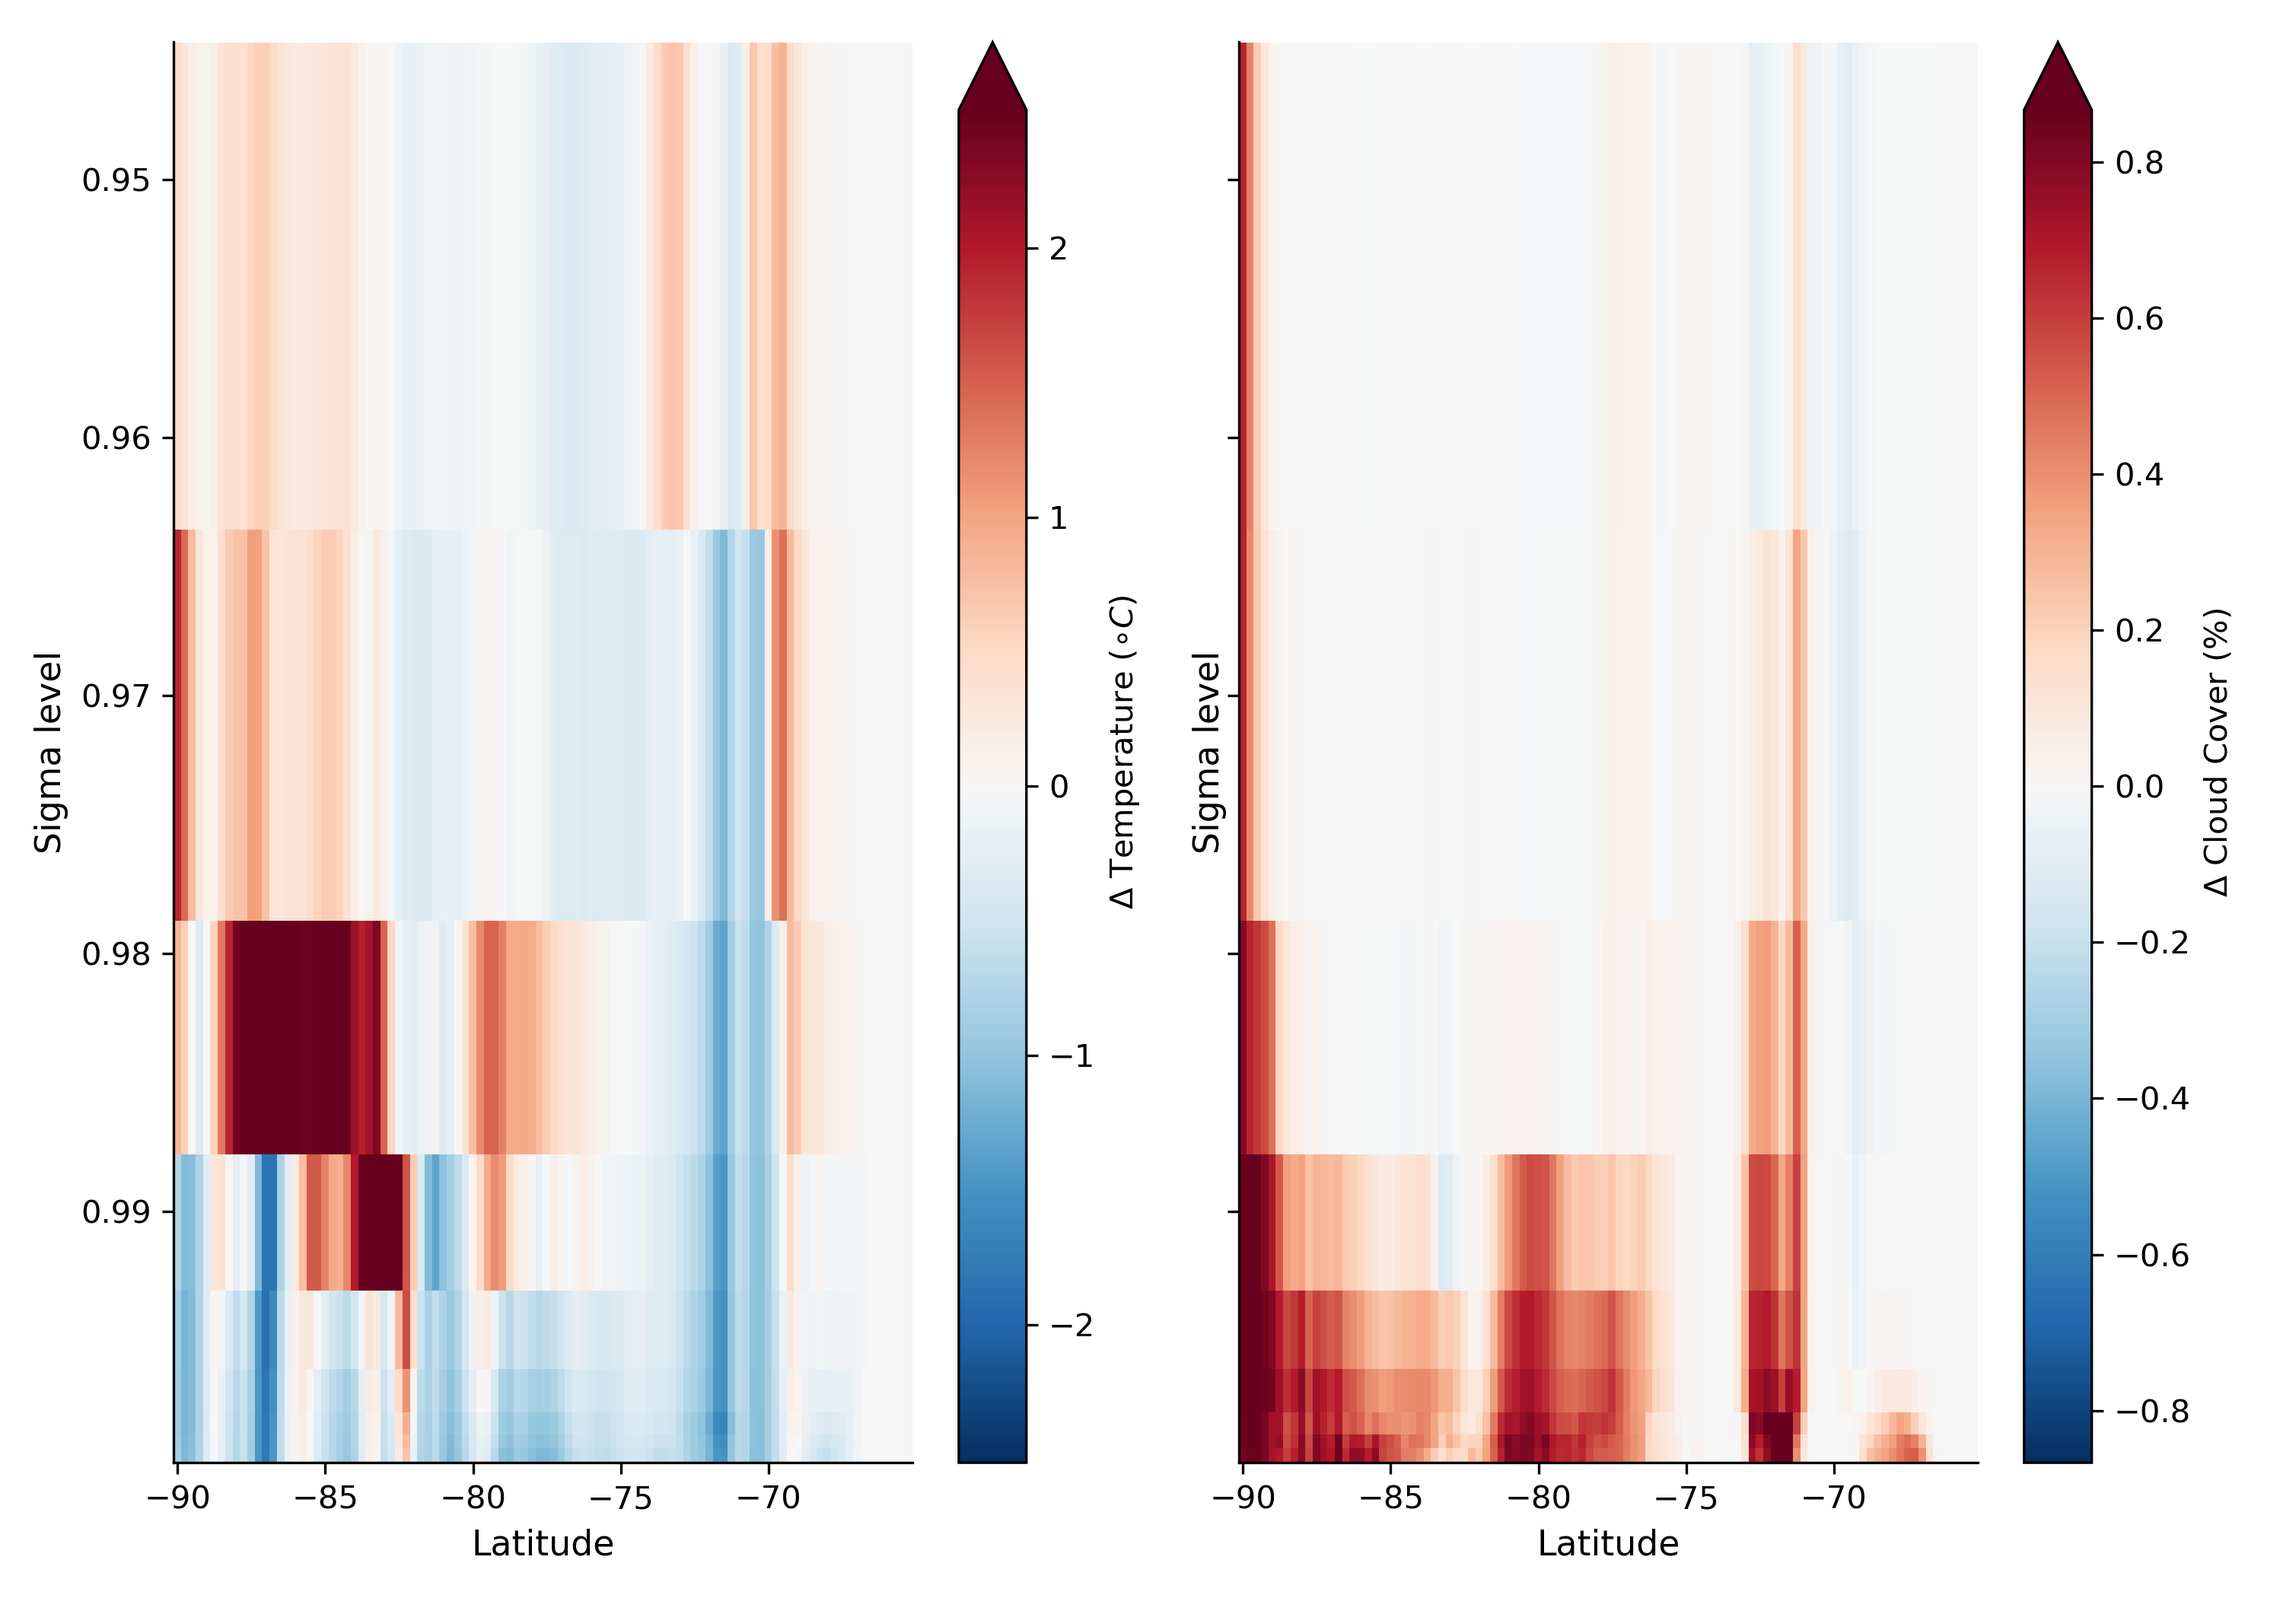
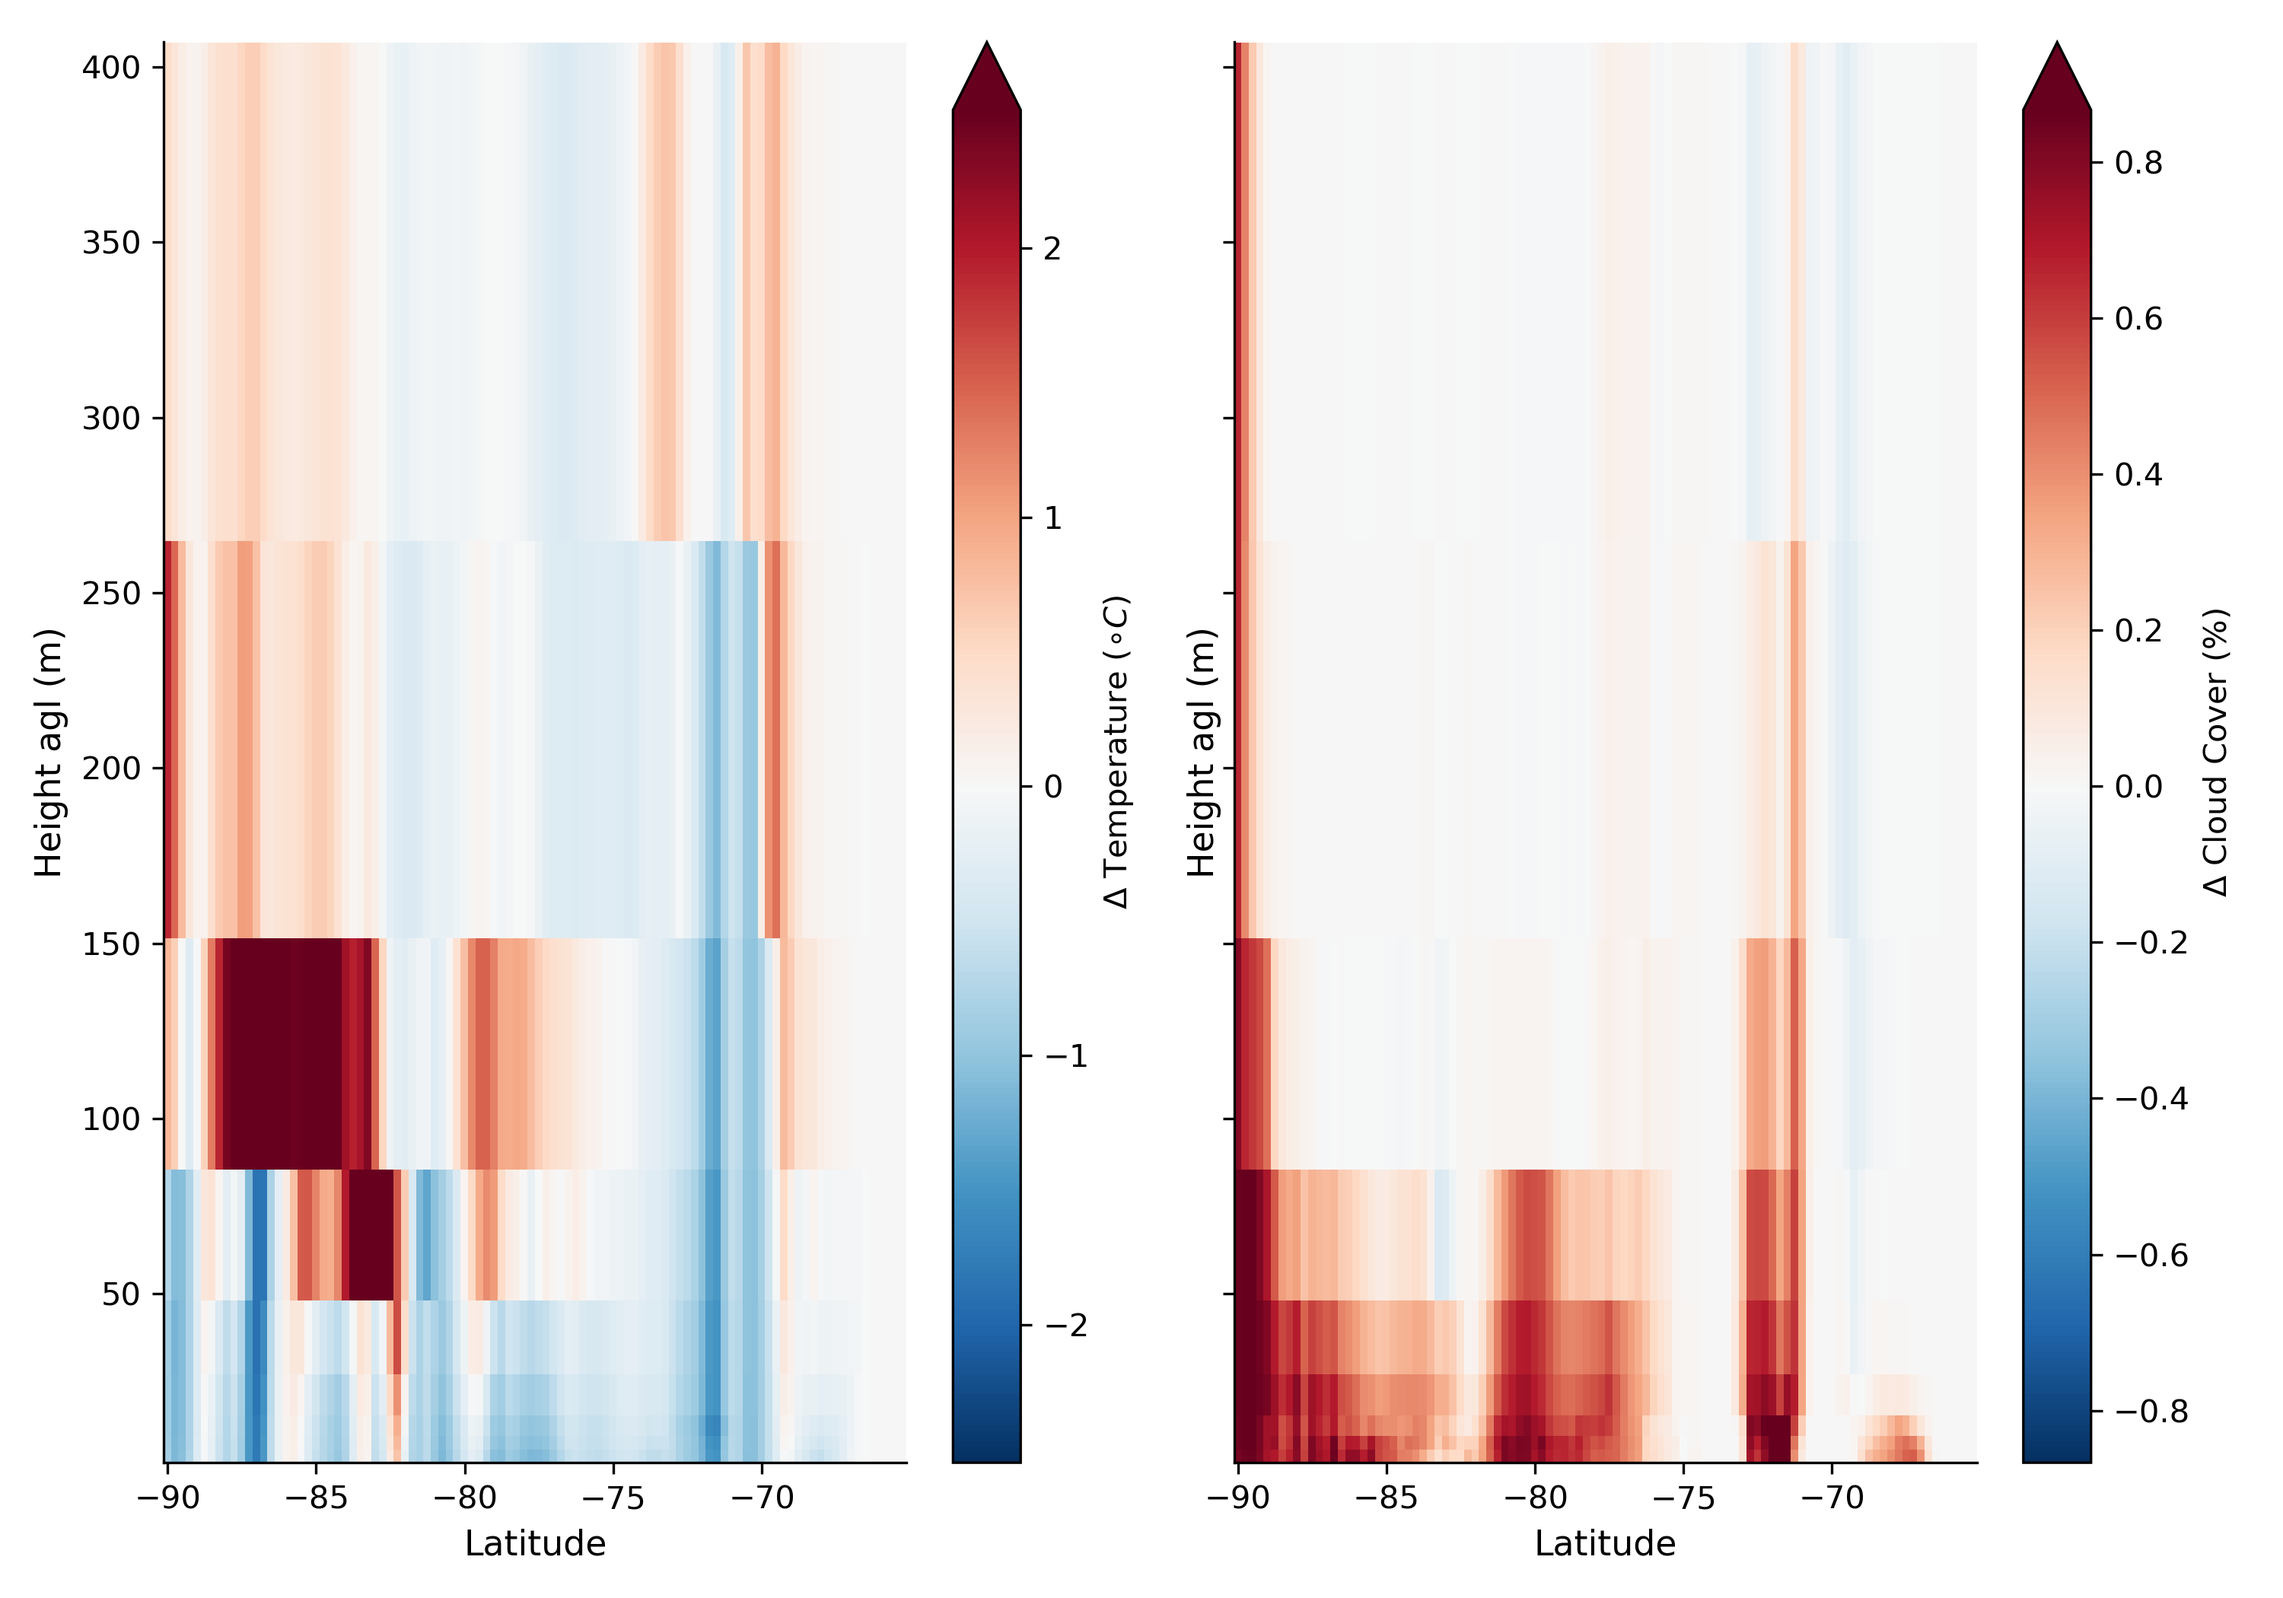
WIP: Radiative 3D effects

diff --git a/Fig4/cross_section_radiation.py b/Fig4/cross_section_radiation.py
@@ -54,20 +54,28 @@ end = (-65, 0)
 # This also works to plot a cross section but on MAR grid
 # diff.SWNC3D.sel(X=0,Y=slice(-2400,2400),TIME='2009-10-14').plot()
 # Create regridder
-ds_in = diff.TT.assign_coords({'lat': ds_bs.LAT, 'lon': ds_bs.LON, 'x': ds_bs.X,
+ds_in = diff.LWN3D.assign_coords({'lat': ds_bs.LAT, 'lon': ds_bs.LON, 'x': ds_bs.X,
                               'y': ds_bs.Y})
 # Create the regridder
 regridder = xe.Regridder(ds_in, ds_grid_new, 'bilinear', reuse_weights=True)
 # Regrid the data to the 0.25x0.25 grid
-ds_TT = regridder(ds_in)
-ds_LQS = regridder(diff.CC3D.assign_coords({'lat': ds_bs.LAT, 'lon': ds_bs.LON,
+ds_LWN3D = regridder(ds_in)
+ds_SWN3D = regridder(diff.SWN3D.assign_coords({'lat': ds_bs.LAT, 'lon': ds_bs.LON,
+                                           'x': ds_bs.X, 'y': ds_bs.Y}))
+ds_SWNC3D = regridder(diff.SWNC3D.assign_coords({'lat': ds_bs.LAT, 'lon': ds_bs.LON,
+                                           'x': ds_bs.X, 'y': ds_bs.Y}))
+ds_LWNC3D = regridder(diff.LWNC3D.assign_coords({'lat': ds_bs.LAT, 'lon': ds_bs.LON,
                                            'x': ds_bs.X, 'y': ds_bs.Y}))
 ds_height = regridder(layer_agl.assign_coords({'lat': ds_bs.LAT, 'lon': ds_bs.LON,
                                               'x': ds_bs.X, 'y': ds_bs.Y}))
 # Create the cross section by using xarray interpolation routine
 # Interpolate along all lats and 0 longitude (could be any lat lon line)
-ds_TT = ds_TT.interp(lat=np.arange(start[0], end[0], 0.25), lon=start[1])
-ds_LQS = ds_LQS.interp(lat=np.arange(start[0], end[0], 0.25), lon=start[1])
+ds_LWN3D = ds_LWN3D.interp(lat=np.arange(start[0], end[0], 0.25), lon=start[1])
+ds_SWN3D = ds_SWN3D.interp(lat=np.arange(start[0], end[0], 0.25), lon=start[1])
+net = ds_SWN3D + ds_LWN3D
+ds_SWNC3D = ds_SWNC3D.interp(lat=np.arange(start[0], end[0], 0.25), lon=start[1])
+ds_LWNC3D = ds_LWNC3D.interp(lat=np.arange(start[0], end[0], 0.25), lon=start[1])
+net_clear = ds_SWNC3D + ds_LWNC3D
 ds_h = ds_height.interp(lat=np.arange(start[0], end[0], 0.25), lon=start[1])
 # mean height of sigma layer (m agl)
 mean_sigma = ds_h.sel(TIME='2009-10-14').where(ds_h.lat < -70).mean(dim='lat')[0, :]
@@ -75,21 +83,37 @@ mean_sigma = ds_h.sel(TIME='2009-10-14').where(ds_h.lat < -70).mean(dim='lat')[0
 # Plot the cross section
 # =============================================================================
 fig, axs = plt.subplots(
-    nrows=1, ncols=2, figsize=(10, 7), sharex=True, sharey=True)
-# ax = axs.ravel().tolist()
+    nrows=2, ncols=3, figsize=(16, 14), sharex=True, sharey=True)
+axs = axs.ravel().tolist()
 
-# Plot TT using contourf
-ds_TT = ds_TT.assign_coords({'height': (('ATMLAY'), mean_sigma.values)})
-contour = ds_TT.isel(ATMLAY=slice(10,-1)).sel(TIME='2009-10-14')[0, :, :].plot.pcolormesh('lat', 'height',
-          robust=True, ax=axs[0], cbar_kwargs={'label': r'$\Delta$ Temperature $(\circ C)$'})
+# Plot LWnet diff using contourf
+ds_LWN3D = ds_LWN3D.assign_coords({'height': (('ATMLAY'), mean_sigma.values)})
+contour = ds_LWN3D.isel(ATMLAY=slice(10,-1)).sel(TIME='2009-10-14')[0, :, :].plot.pcolormesh('lat', 'height',
+          robust=True, ax=axs[0], cbar_kwargs={'label': r'$\Delta$ LWnet $(Wm^{2})$'})
 
+# Plot SWnet diff using contourf
+ds_SWN3D = ds_SWN3D.assign_coords({'height': (('ATMLAY'), mean_sigma.values)})
+contour = ds_SWN3D.isel(ATMLAY=slice(10,-1)).sel(TIME='2009-10-14')[0, :, :].plot.pcolormesh('lat', 'height',
+          robust=True, ax=axs[1], cbar_kwargs={'label': r'$\Delta$ SWnet $(Wm^{2})$'})
+# Plot Net diff using contourf
+net = net.assign_coords({'height': (('ATMLAY'), mean_sigma.values)})
+contour = net.isel(ATMLAY=slice(10,-1)).sel(TIME='2009-10-14')[0, :, :].plot.pcolormesh('lat', 'height',
+          robust=True, ax=axs[2], cbar_kwargs={'label': r'$\Delta$ Net Rad. $(Wm^{2})$'})
 
-# Plot cloud fraction using contour, with some custom labeling
-ds_LQS = ds_LQS.assign_coords({'height': (('ATMLAY'), mean_sigma.values)})
-lqs_contour = ds_LQS.isel(ATMLAY=slice(10,-1)).sel(TIME='2009-10-14')[0, :, :].plot.pcolormesh('lat', 'height',
-              robust=True, ax=axs[1], cbar_kwargs={'shrink': 1, 'label': r'$\Delta$ Cloud Cover (%)'})
+# Plot LWnet clear diff using contourf
+ds_LWNC3D = ds_LWNC3D.assign_coords({'height': (('ATMLAY'), mean_sigma.values)})
+contour = ds_LWNC3D.isel(ATMLAY=slice(10,-1)).sel(TIME='2009-10-14')[0, :, :].plot.pcolormesh('lat', 'height',
+          robust=True, ax=axs[3], cbar_kwargs={'label': r'$\Delta$ LWnet clear $(Wm^{2})$'})
 
+# Plot LWnet clear diff using contourf
+ds_SWNC3D = ds_SWNC3D.assign_coords({'height': (('ATMLAY'), mean_sigma.values)})
+contour = ds_SWNC3D.isel(ATMLAY=slice(10,-1)).sel(TIME='2009-10-14')[0, :, :].plot.pcolormesh('lat', 'height',
+          robust=True, ax=axs[4], cbar_kwargs={'label': r'$\Delta$ SWnet clear $(Wm^{2})$'})
 
+# Plot Net diff using contourf
+net_clear = net_clear.assign_coords({'height': (('ATMLAY'), mean_sigma.values)})
+contour = net_clear.isel(ATMLAY=slice(10,-1)).sel(TIME='2009-10-14')[0, :, :].plot.pcolormesh('lat', 'height',
+          robust=True, ax=axs[5], cbar_kwargs={'label': r'$\Delta$ Clear Net Rad. $(Wm^{2})$'})
 
 fs = 11
 for ax in axs:
@@ -100,4 +124,4 @@ for ax in axs:
 fig.tight_layout()
 
 sns.despine()
-fig.savefig('/home/sh16450/Documents/repos/Antarctica_clouds/Fig4/Fig5.png', format='PNG', dpi=300)
+fig.savefig('/home/sh16450/Documents/repos/Antarctica_clouds/Fig4/Fig6.png', format='PNG', dpi=300)
